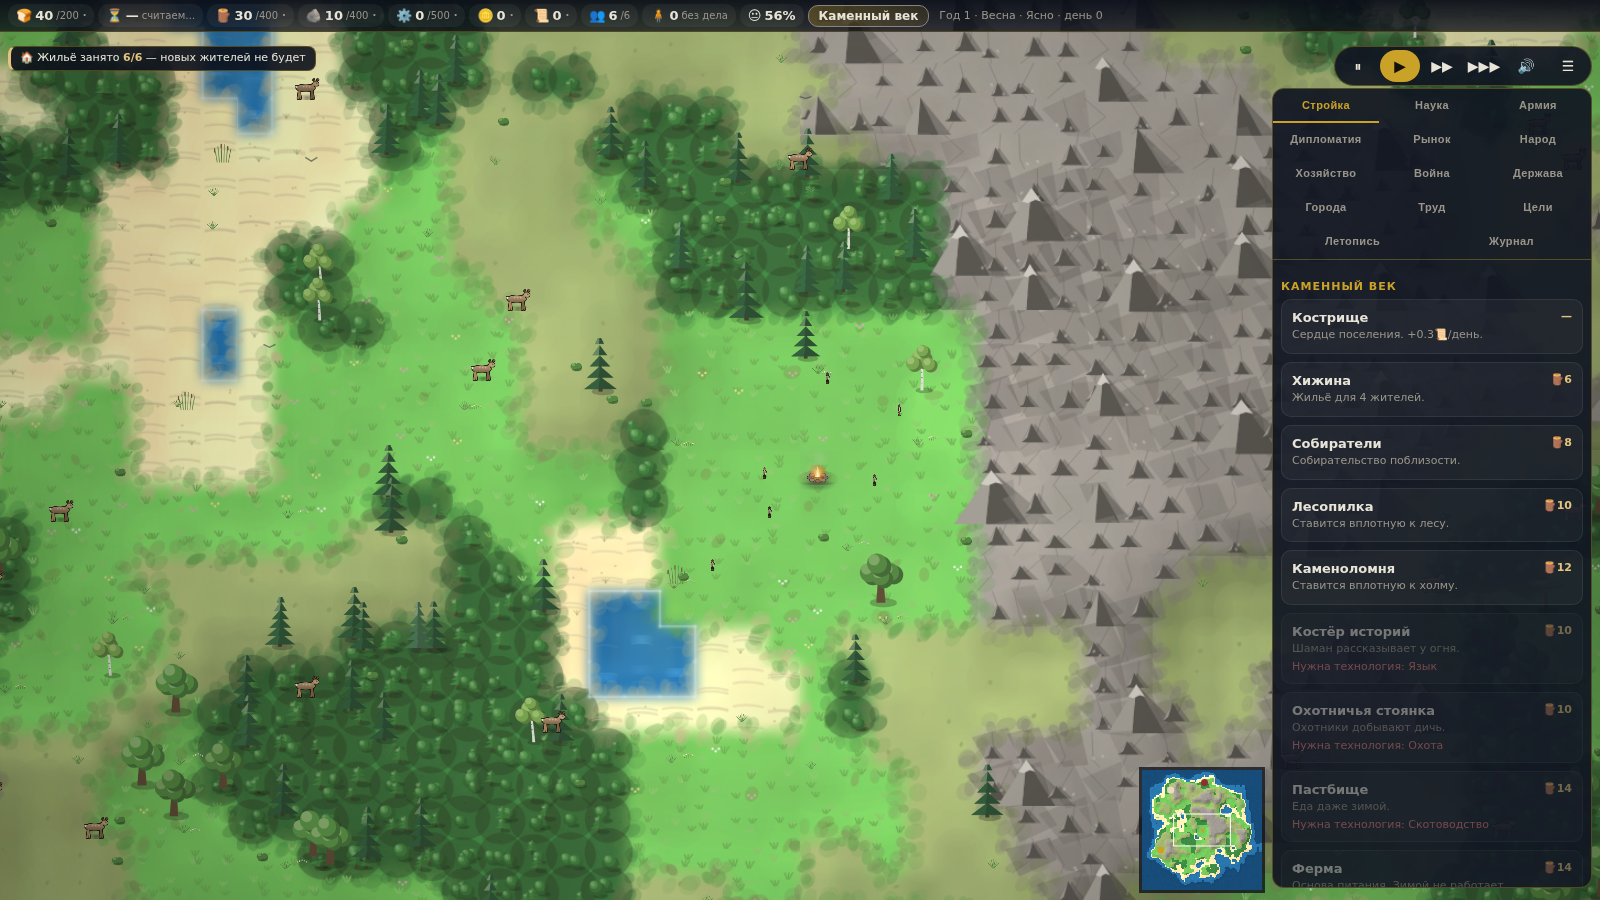
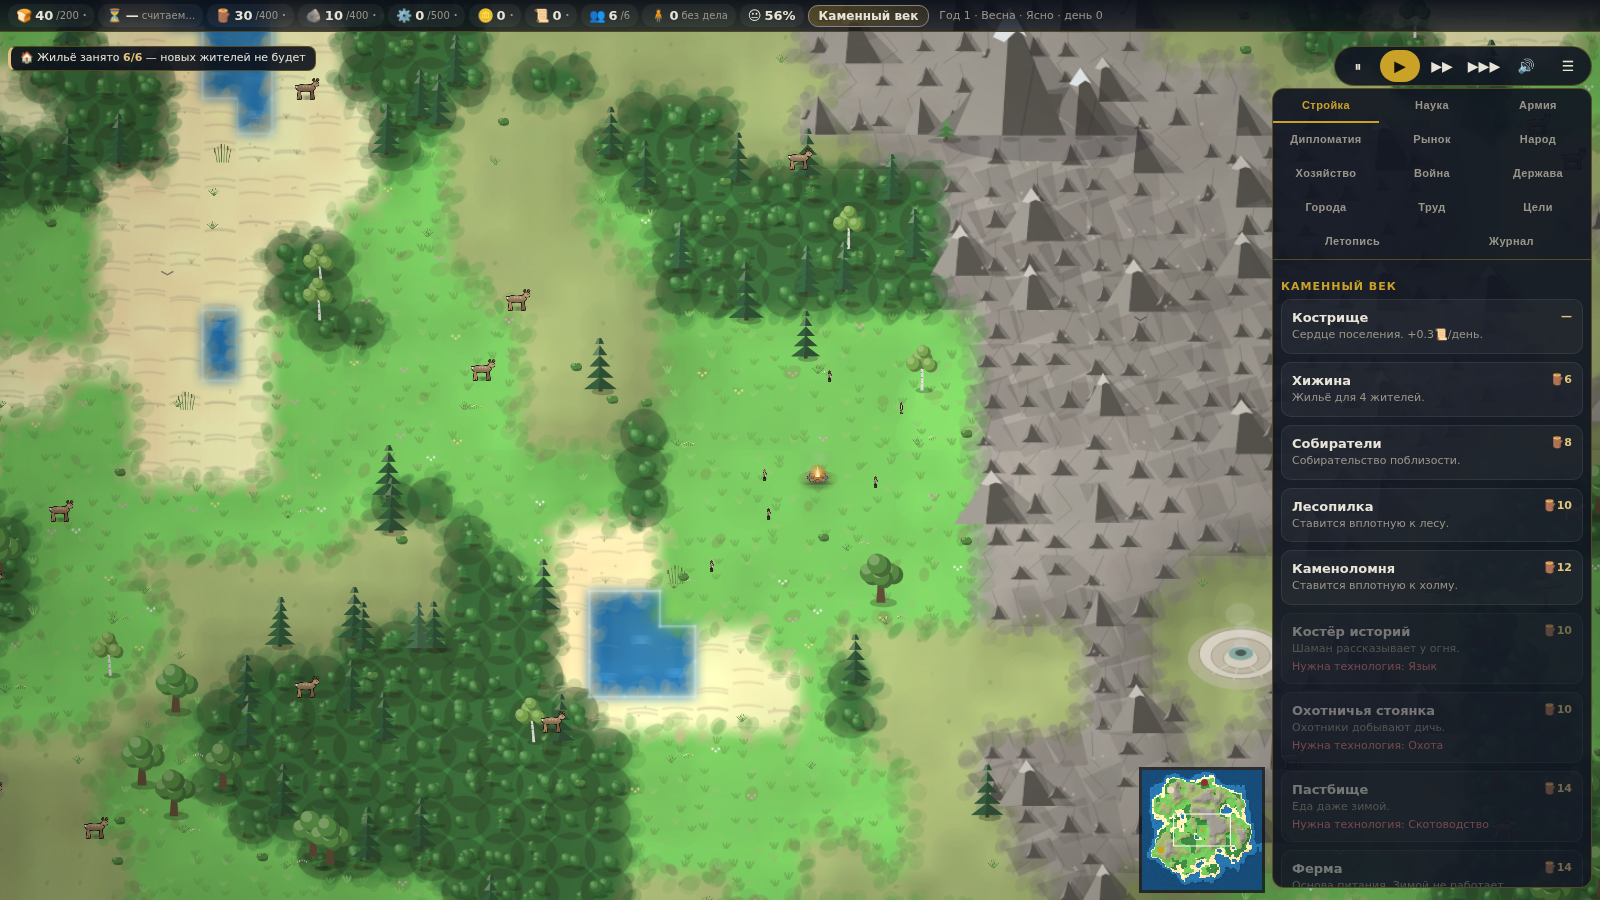
Природные ориентиры подключены: на карте появились названные места
landmarks.js был написан прошлым роем и полгода лежал мёртвым грузом —
модуль есть, а в игре его нет. Теперь подключён: три вставки в terrain.js
(ориентиры печутся прямо в чанки местности, последним слоем — чтобы их не
перечёркивали береговая кромка и тени обрывов) и одна в renderer.js для
живой части: дым вулкана, выброс гейзера, пыль водопада.

На карте 96×96 появляются 3–5 названных мест: «Гора Ворона», «Ущелье
Ветров», «Оазис Трёх Братьев». Они стоят на своих местах на одном сиде и
не двигаются между сессиями.

Один якорь из блока ПОДКЛЮЧЕНИЕ оказался неточен: `this.road = null;`
заявлен как единственный в файле, а встречается дважды. Взял строку целиком
с комментарием — она уникальна. Второй якорь (veg.draw в renderer.js)
устарел из-за моей же прежней правки, когда растительность ставилась на
пресеты; нашёл текущую строку.

Про замер честно: FPS сейчас мерить нельзя. В фоне работают четырнадцать
агентов, и общий вид карты показывает 44 кадра ВНЕ ЗАВИСИМОСТИ от того,
подключены ориентиры или нет — проверено прямым сравнением со стэшем,
44 против 44. Отдельно замерил сам живой слой: 44 против 45, то есть один
кадр на три дымка. Настоящий замер сделаю, когда рой закончит.

919 проверок в 28 наборах зелёные, консоль чистая.

Claude-Session: https://claude.ai/code/session_01A6YrcifM54qxcWsSEjEaM2

Changed region(s): [[0.5625, 0.0311, 0.7188, 0.1867], [0.7188, 0.6844, 0.8125, 0.7778]]

diff --git a/app/src/render/terrain.js b/app/src/render/terrain.js
@@ -10,6 +10,7 @@
 // память не расходуется на невидимые куски.
 import { TILE } from '../core/data.js';
 import { TERRAIN, TILE_HEIGHT, hash2, fbm2, hex2rgb, mixHex } from './palette.js';
+import { LandmarkLayer } from './landmarks.js';
 
 export const CHUNK = 16;
 
@@ -24,6 +25,9 @@ export class Terrain {
     this.low = null;           // мини-канвас всей карты
     this.w = 0; this.h = 0;
     this.road = null;          // сеть дорог: рёбра, пятаки перекрёстков, индекс по чанкам
+    // Природные ориентиры: пик, вулкан, оазис, водопад. Живут вместе с
+    // местностью, потому что печутся прямо в её чанки.
+    this.landmarks = new LandmarkLayer(quality);
     this.roadKey = null;       // подпись состава построек и эпохи
   }
 
@@ -110,6 +114,9 @@ export class Terrain {
     if (this.worldSeed !== sim.world.seed || !this.height) this.buildHeight(sim.world);
     if (this.season !== sim.seasonIdx) { this.chunks.clear(); this.low = null; this.season = sim.seasonIdx; }
     if (!this.low) this.buildLow(sim);
+    // Ориентиры расставляются по готовому полю высот и только при смене
+    // мира: ensure возвращает true один раз за партию, тогда и чистим чанки.
+    if (this.landmarks.ensure(sim, this.q, this.height)) this.chunks.clear();
     // Дороги живут внутри чанков. Пересобираем сеть только когда меняется
     // состав достроенного или эпоха — то есть несколько раз за партию, а не в кадре.
     const key = roadKeyOf(sim);
@@ -213,6 +220,9 @@ export class Terrain {
         this.edges(c, world, pal, x, y, (x - x0) * TP, (y - y0) * TP, TP);
       }
     }
+    // Ориентир кладётся последним слоем чанка: он стоит НА местности, и его
+    // не должны перечёркивать ни береговая кромка, ни тени обрывов.
+    this.landmarks.paint(c, sim, x0, y0, TP, CHUNK);
     return cv;
   }
 

diff --git a/app/src/render/renderer.js b/app/src/render/renderer.js
@@ -144,6 +144,14 @@ export class Renderer {
     // Растительность стоит 15 FPS на общем виде карты (58 -> 43). Держим её
     // там, где есть запас: на eco лес остаётся тем, что печёт terrain.js.
     if (this.quality.richVeg) this.veg.draw(sim, ctx, ox, oy, z, cw, ch);
+    // Живая часть ориентиров: дым вулкана, выброс гейзера, пыль водопада.
+    // После растительности и до зданий — столб дыма поднимается над
+    // местностью, но житель, идущий мимо, остаётся впереди него.
+    //
+    // Гейта по пресету здесь НЕТ намеренно, в отличие от растительности:
+    // ориентиров на карте три-пять, а не тысячи, и слой сам молчит на eco
+    // и при зуме мельче 11 пикселей на клетку.
+    this.terrain.landmarks.drawLive(sim, ctx, ox, oy, z, cw, ch, this.time);
 
     // --- тени облаков (мировые координаты — не дрожат при панораме) ---
     if (this.quality.clouds) this.drawClouds(sim, ctx, ox, oy, z, cw, ch);
